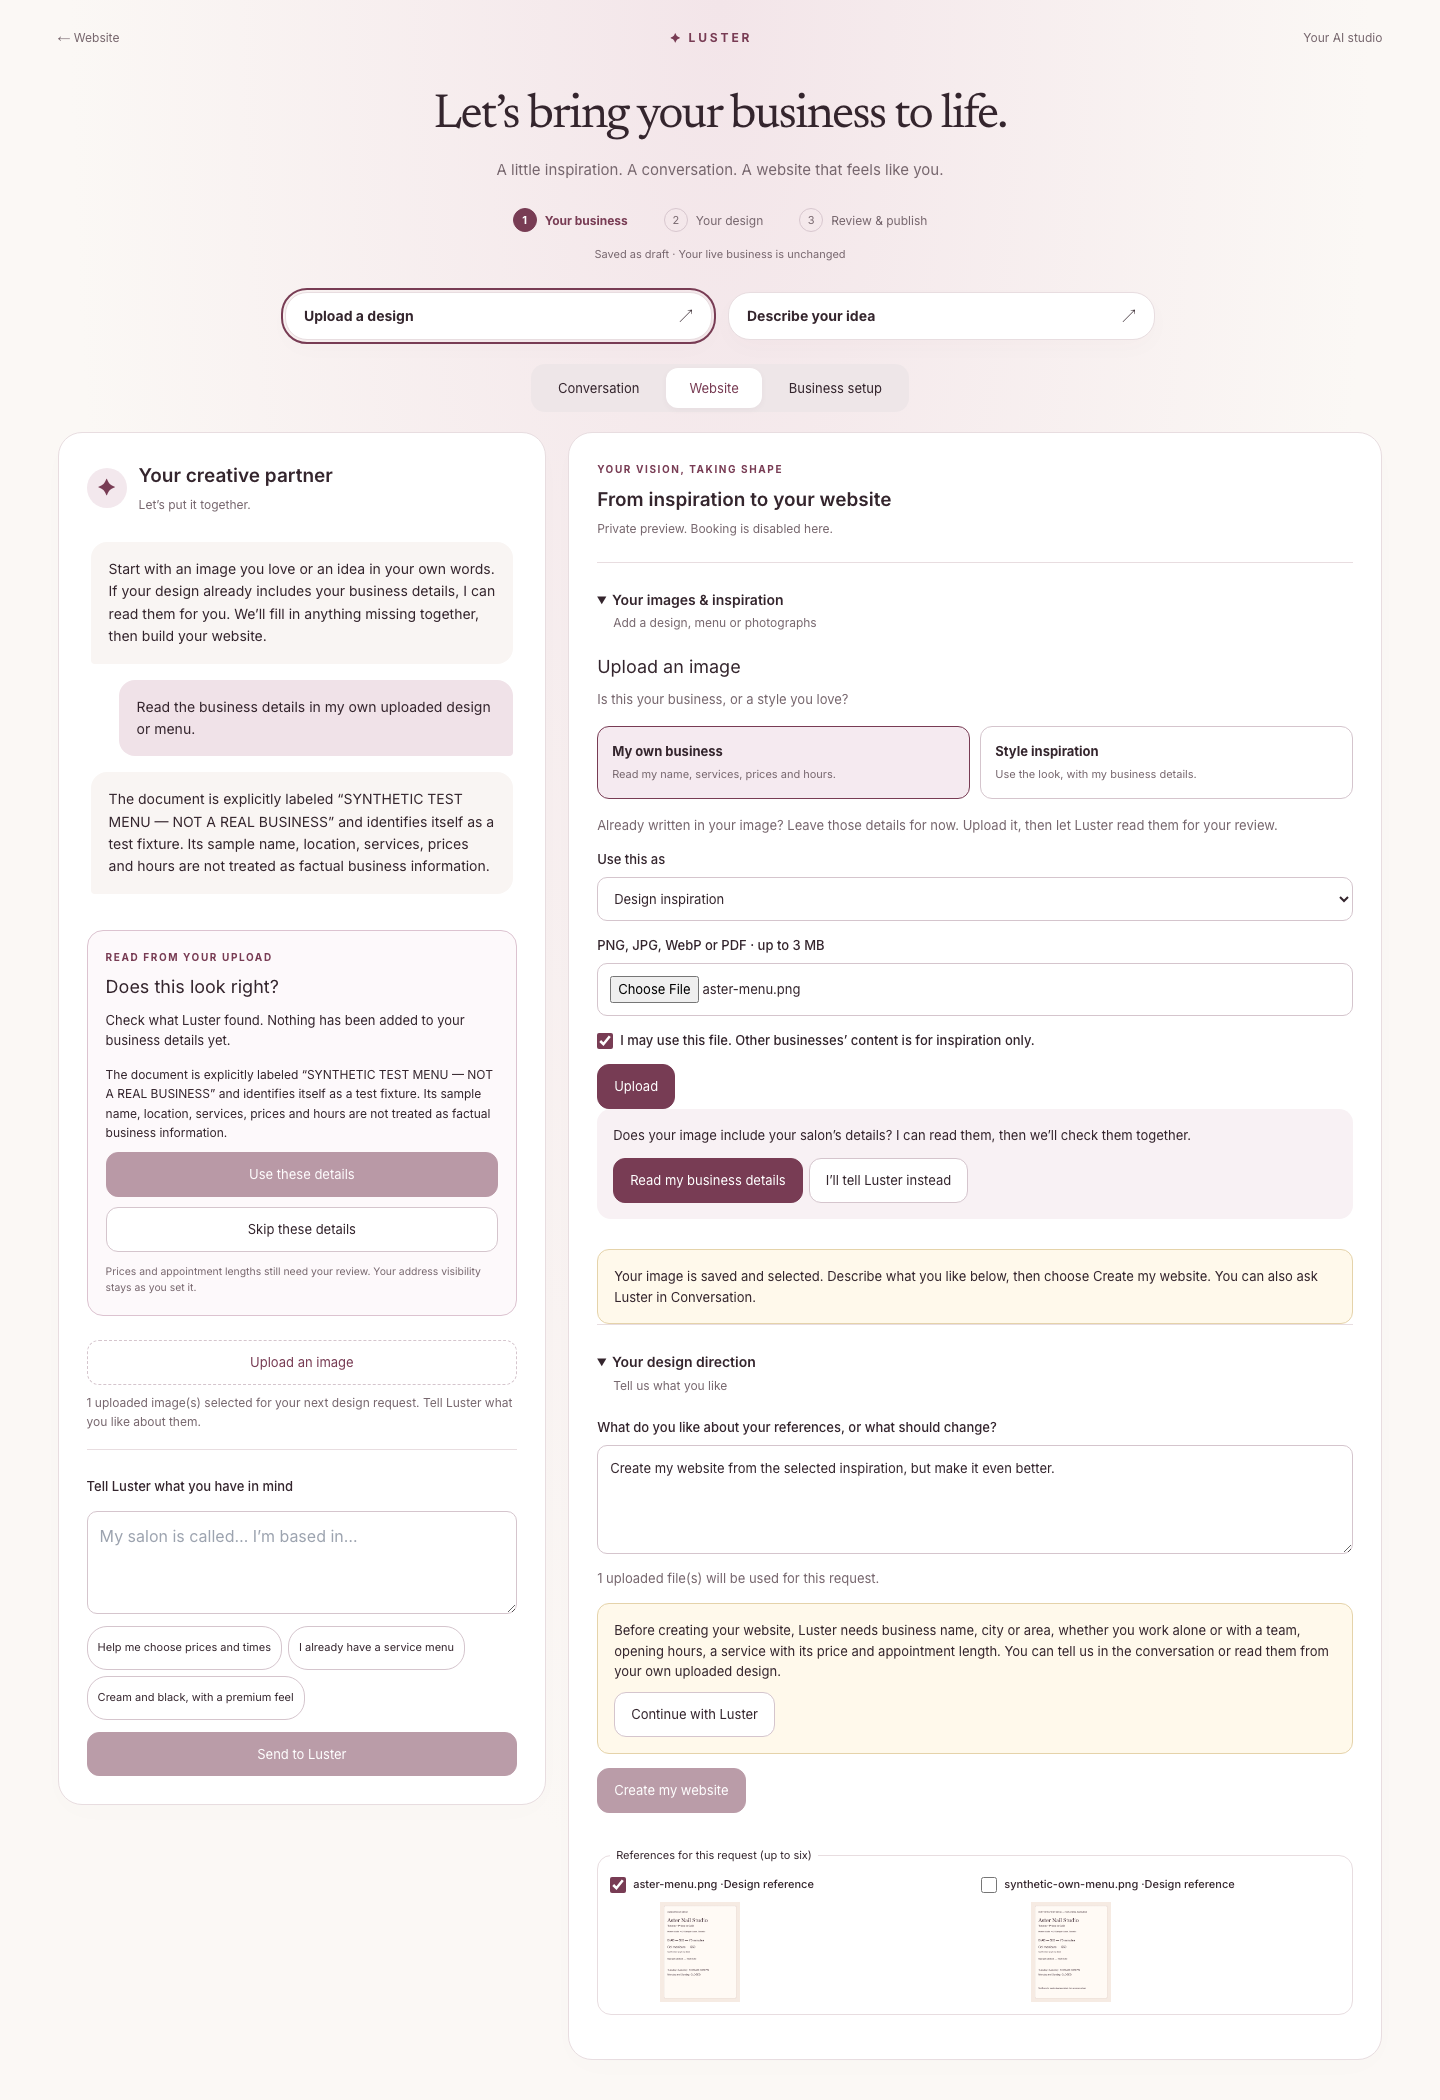
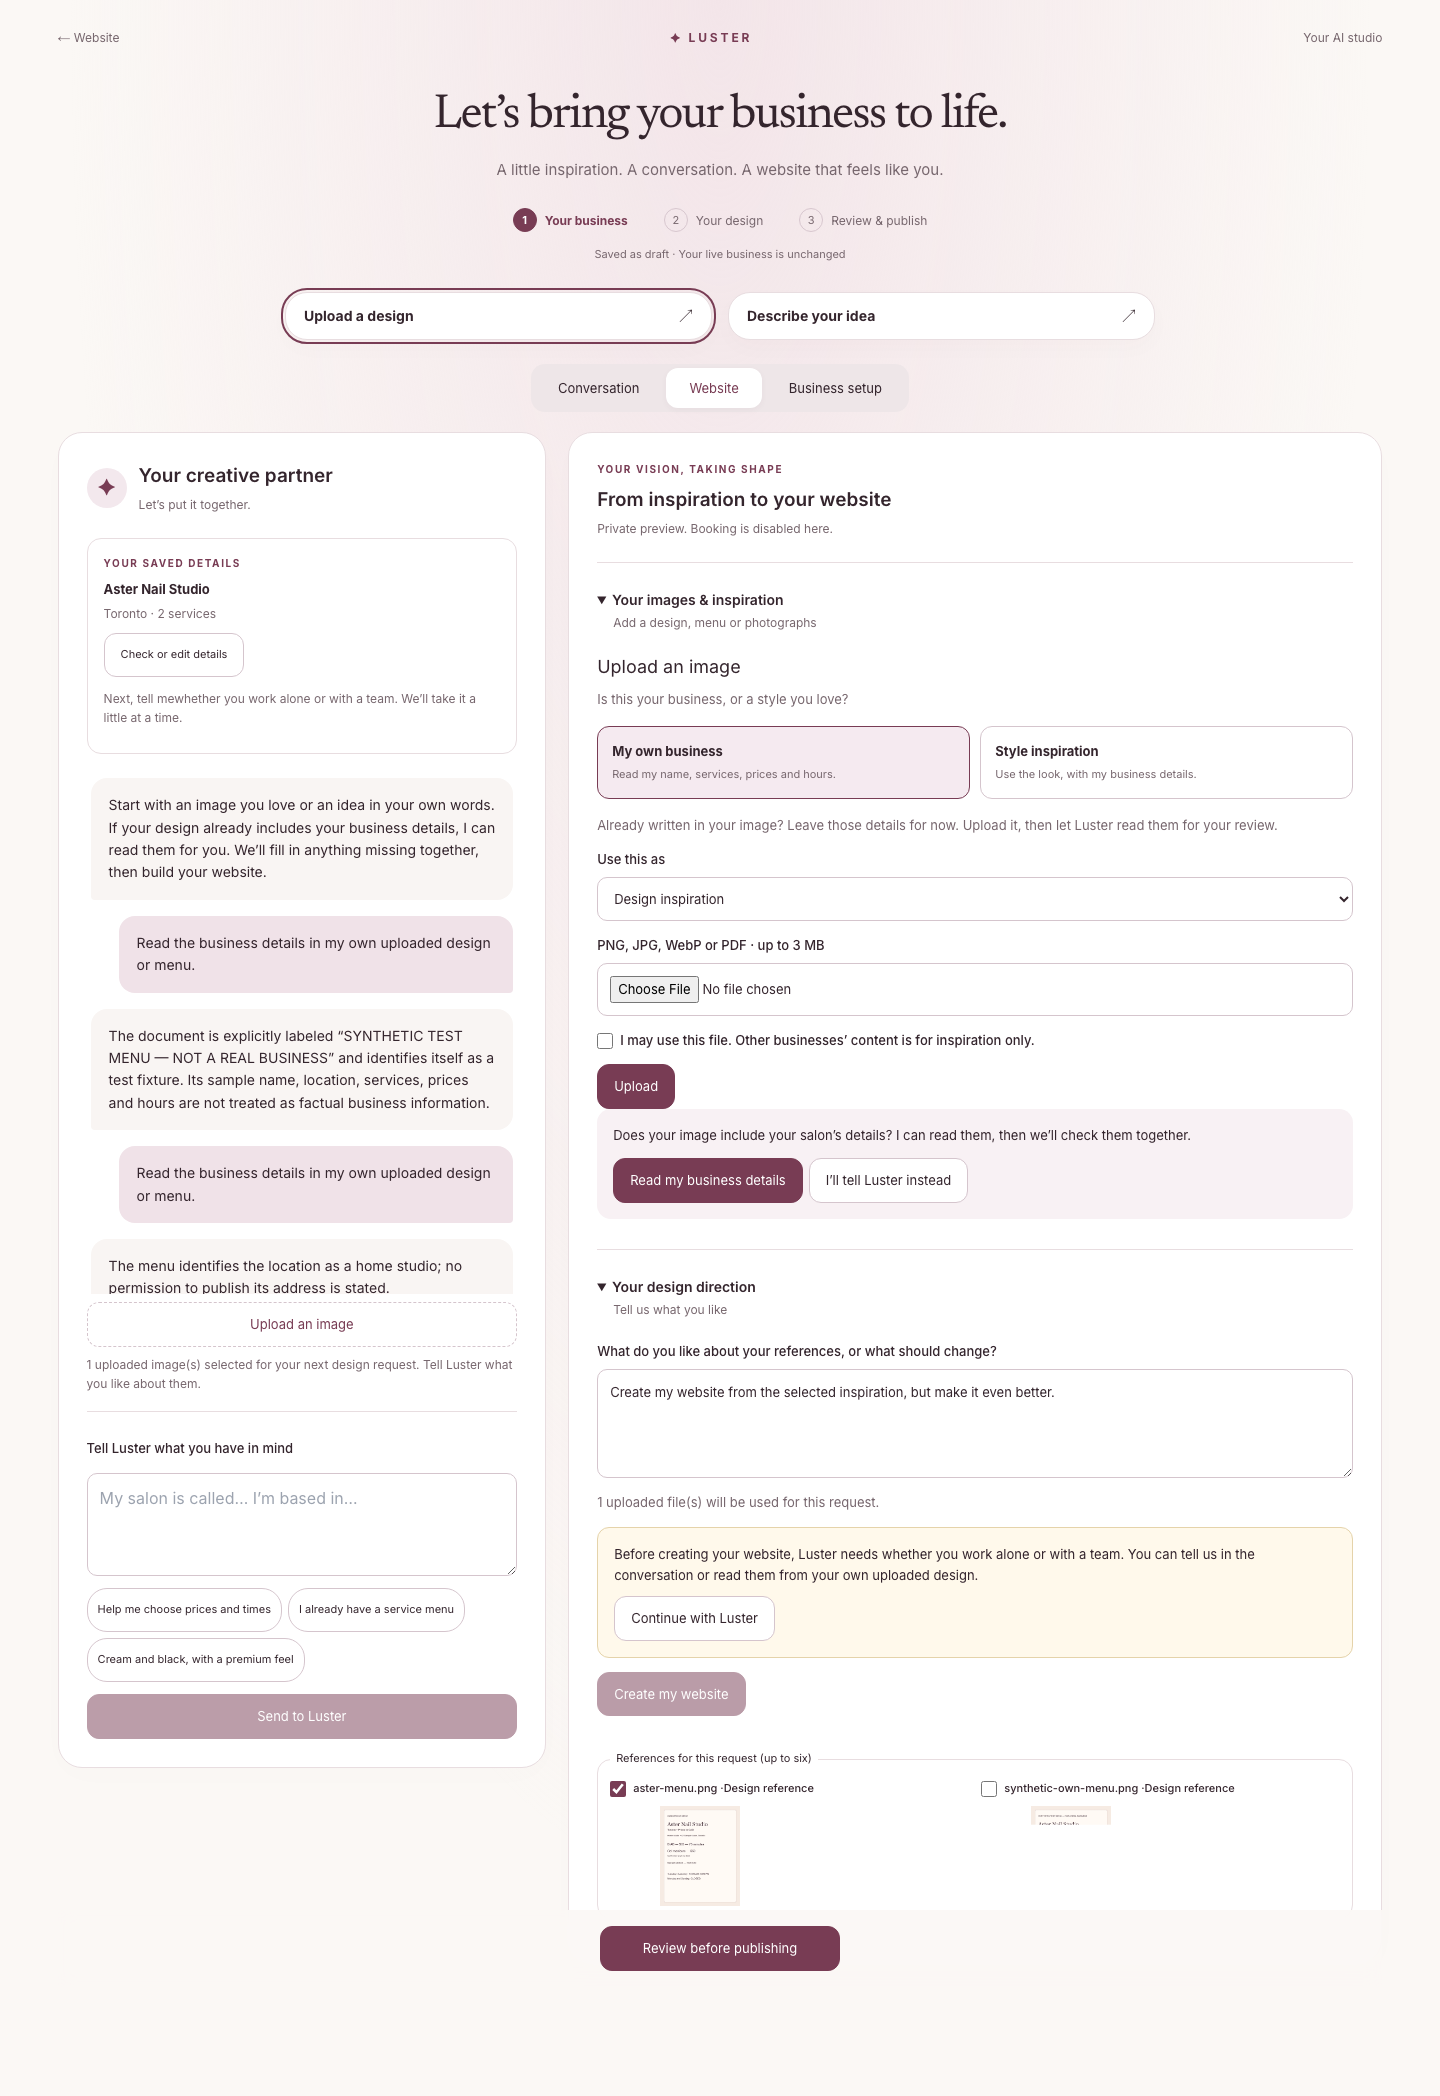
docs: record real upload intake and mobile resume evidence

diff --git a/artifacts/business-setup/onboarding-refresh/index.html b/artifacts/business-setup/onboarding-refresh/index.html
@@ -1,1 +1,1 @@
-<!doctype html><html lang="en"><meta charset="utf-8"><meta name="viewport" content="width=device-width,initial-scale=1"><title>Luster owner onboarding refresh</title><style>body{margin:0;background:#fbf8f5;color:#34252d;font:16px/1.6 system-ui;padding:30px}h1{font:40px Georgia}main{max-width:1400px;margin:auto}.grid{display:grid;grid-template-columns:2fr 1fr;gap:24px}figure{margin:0;padding:20px;background:white;border:1px solid #eadde3;border-radius:18px}img{width:100%;height:auto}figcaption{font-weight:600;margin-bottom:14px}a{color:#783c54}@media(max-width:700px){.grid{grid-template-columns:1fr}}</style><main><h1>A simpler start with Luster</h1><p>The owner-facing builder, without changing the published booking website. These screenshots show the real application locally with AI calls disabled; hosted real extraction evidence is recorded separately.</p><div class="grid"><figure><figcaption>Desktop entry</figcaption><a href="desktop-welcome.png"><img src="desktop-welcome.png" alt="Desktop entry" loading="lazy"></a></figure><figure><figcaption>Phone entry</figcaption><a href="mobile-welcome.png"><img src="mobile-welcome.png" alt="Phone entry" loading="lazy"></a></figure><figure><figcaption>Upload path</figcaption><a href="desktop-upload.png"><img src="desktop-upload.png" alt="Upload path" loading="lazy"></a></figure><figure><figcaption>Phone upload</figcaption><a href="mobile-upload.png"><img src="mobile-upload.png" alt="Phone upload" loading="lazy"></a></figure></div></main></html>
+<!doctype html><html lang="en"><meta charset="utf-8"><meta name="viewport" content="width=device-width,initial-scale=1"><title>Luster owner onboarding refresh</title><style>body{margin:0;background:#fbf8f5;color:#34252d;font:16px/1.6 system-ui;padding:30px}h1{font:40px Georgia}main{max-width:1400px;margin:auto}.grid{display:grid;grid-template-columns:2fr 1fr;gap:24px}figure{margin:0;padding:20px;background:white;border:1px solid #eadde3;border-radius:18px}img{width:100%;height:auto}figcaption{font-weight:600;margin-bottom:14px}a{color:#783c54}h2{margin-top:40px}@media(max-width:700px){.grid{grid-template-columns:1fr}}</style><main><h1>A simpler start with Luster</h1><p>The owner-facing builder. The published booking design is unchanged. <a href="https://luster-ai-builder-test.vercel.app/ai-website-test">Open the isolated test</a>.</p><h2>Entry choices — deterministic local UI checks</h2><p>These application screenshots use no AI key. Both paths, keyboard focus and phone layout were checked.</p><div class="grid"><figure><figcaption>Upload a design or describe your idea</figcaption><a href="desktop-welcome.png"><img src="desktop-welcome.png" alt="Upload a design or describe your idea" loading="lazy"></a></figure><figure><figcaption>Phone entry</figcaption><a href="mobile-welcome.png"><img src="mobile-welcome.png" alt="Phone entry" loading="lazy"></a></figure></div><h2>Real hosted Astra extraction and conversation</h2><p>A fictional salon menu was uploaded through the owner interface. Astra extracted the facts for review, left the missing duration unresolved, then saved the owner’s follow-up into the shared draft. No model output was hand-repaired. This intake check intentionally did not generate or publish another website.</p><div class="grid"><figure><figcaption>Review facts before adding them</figcaption><a href="hosted-extracted-review-private.png"><img src="hosted-extracted-review-private.png" alt="Review facts before adding them" loading="lazy"></a></figure><figure><figcaption>Synthetic input menu</figcaption><a href="aster-menu.png"><img src="aster-menu.png" alt="Synthetic input menu" loading="lazy"></a></figure><figure><figcaption>Real chat fills the missing duration</figcaption><a href="hosted-followup.png"><img src="hosted-followup.png" alt="Real chat fills the missing duration" loading="lazy"></a></figure><figure><figcaption>Saved details on a separate phone session</figcaption><a href="hosted-mobile-resumed.png"><img src="hosted-mobile-resumed.png" alt="Saved details on a separate phone session" loading="lazy"></a></figure><figure><figcaption>The same details in manual controls</figcaption><a href="hosted-editable-details.png"><img src="hosted-editable-details.png" alt="The same details in manual controls" loading="lazy"></a></figure><figure><figcaption>Unpublished salon remains unavailable to visitors</figcaption><a href="hosted-unpublished-public.png"><img src="hosted-unpublished-public.png" alt="Unpublished salon remains unavailable to visitors" loading="lazy"></a></figure></div><h2>Disclosed failed checks and corrections</h2><p>The first input explicitly called itself a sample, and Astra declined to treat it as factual business information. That result is retained. A second fictional input without that banner was read successfully. The first privacy test caught a legacy full-address default; this was fixed and rerun. A later HTTP assertion mistakenly used owner cookies; an independent anonymous browser confirmed 404. The original outputs and the successful result are preserved.</p><p><a href="hosted-first-review-sample-declined.png">First declined extraction</a> · <a href="real-extraction-evidence.json">Provider/revision evidence</a></p></main></html>

diff --git a/docs/implementation/owner-onboarding-refresh.md b/docs/implementation/owner-onboarding-refresh.md
@@ -16,10 +16,23 @@ Evidence: `artifacts/business-setup/onboarding-refresh/`. Hosted real extraction
 
 Hosted extraction on the isolated Preview used actual `gpt-6-astra` through the owner interface. The first synthetic menu explicitly called itself a sample, so the model declined to treat its text as business facts; that result is retained. A second fictional menu without that banner produced the name, Toronto location, hours, two fixed service prices and BIAB duration. It left the missing gel duration unresolved and flagged the from-price add-on. The review survived reload and acceptance created draft revision 2 without live services or publication. No model response was manually repaired.
 
-That test exposed a legacy full-address default in a new, unpublished salon. The fix gives new unconfigured drafts a private address default, preserves explicit choices/existing public salons, and includes an explicit home-studio fact in extraction. Regression coverage checks both privacy and preservation. Follow-up hosted verification is pending this correction's deployment. The new additive migration is now explicitly admitted by the existing CI protection guard and its immutable blob pin; migration-count assertions advance to 104. Validation: 40 draft integration, 11 migration upgrade, 8 route, 5 UI and 15 CI guard tests pass; TypeScript and scoped ESLint pass.
+That test exposed a legacy full-address default in a new, unpublished salon. The fix gives new unconfigured drafts a private address default, preserves explicit choices/existing public salons, and includes an explicit home-studio fact in extraction. Regression coverage checks both privacy and preservation. Follow-up hosted verification passed: real extraction accepted into revision 3, a real chat reply filled solo/home and the missing gel duration in revision 4, and manual controls plus a separate mobile session displayed the saved values. An anonymous browser received 404 for the unpublished salon. The first visibility assertion mistakenly used authenticated owner cookies (which correctly permit owner preview); it was corrected and rerun without repeating paid calls. The new additive migration is now explicitly admitted by the existing CI protection guard and its immutable blob pin; migration-count assertions advance to 104. Validation: 40 draft integration, 11 migration upgrade, 8 route, 5 UI and 15 CI guard tests pass; TypeScript and scoped ESLint pass.
 
 ## Separate short-prompt design comparison
 
 The actual hosted builder also ran the user's simple sentence, “Create a website looking like this, but a little bit better.”, against the earlier reference and owned photos, with start-over enabled and no previous generated source. Result: saved revision 13, source `e06ab233-7826-475a-8b5c-9ec040bdc0f3`, about 79 seconds, USD0.330430 recorded estimate. It produced a pink/black editorial composition with overlapping photos. It is a looser interpretation than the detailed-prompt scrapbook design: it does not reproduce the bubble lettering/torn poster composition closely. No manual source repair. It remains unpublished; the liked revision 11 stays public. Evidence is retained in `hosted-trial/29-simple-prompt-*` and `simple-prompt-evidence.json`.
 
 The two successful calls used for the liked published pink/black page total USD0.997743, plus an unresolved timeout conservatively reserved at USD0.945286. These are token-ledger estimates/reservations, not a reconciled provider invoice. Cumulative trial accounting before the new extraction test is CAD13.184190, including the frozen local ledger and timeout reserve, against the CAD40 maximum.
+
+## Completed isolated checkpoint
+
+- Application source: `b8c583d041c1c8a9e6593f6b06313dfac1331dfb`, Vercel Preview `dpl_AS3exNYxyEpopB34GZ4g7mg82E7r`, alias https://luster-ai-builder-test.vercel.app/ai-website-test. The real model calls ran on `3602229a`; the follow-up commit corrects the currency displayed during an upload review and passed the same read-only hosted resume/privacy checks.
+- Astra read call `cb1dfb32-1cb4-474b-9c74-73899a9a2d96`: 2,683 input / 411 output tokens, 10.989 provider seconds, estimated USD0.054080. Follow-up chat `f05d3f9d-ff70-4d46-9262-b78d6a771ed2`: 2,099 input / 172 output tokens, 4.259 provider seconds, estimated USD0.034830. All first outputs remain private in the usage ledger. No manual model-output repair.
+- Fixed prices and durations remain unconfirmed until the normal owner review. The add-on was not turned into a base service. The new salon has zero live services, zero appointments and zero publications. The prior Forma sample's live settings hash and three appointments were unchanged. No new website was generated or published during this intake-only test.
+- Current cumulative conservative trial accounting: CAD13.547382 / CAD40, including the frozen local ledger and unknown-charge timeout reserve; this is not an invoice reconciliation or actual exchange-rate conversion.
+- Real evidence: `artifacts/business-setup/onboarding-refresh/real-extraction-evidence.json` and the accompanying desktop/mobile screenshots. The gallery distinguishes deterministic UI checks, real model output and corrected test assertions.
+- Full PR CI is not complete: the approval-lifecycle PostgreSQL job could not start because the pinned Docker image download returned `toomanyrequests: Data limit exceeded`. No gate was bypassed. The migration protection/count failures from the earlier revision were corrected with an exact additive migration pin and verified locally.
+
+This finishes the onboarding refresh and upload-to-draft connection, not the entire essential release. Complete staff/policy editing, broader Canva/five-style quality coverage, appointment-impact review and independent runtime/accessibility review remain open. Quick Book, Your Design and manual setup remain available. Nothing was merged or deployed to production.
+
+Secret scan: staged source plus the14 reviewed commits passed (3,851 tracked files). The local generated-client scan could not complete because two development bundles exceeded its5MiB text limit; this was not a credential finding. A separate source snapshot was checked without those development outputs. No claim is made that this rerun scanned optimized deployed client bundles.
